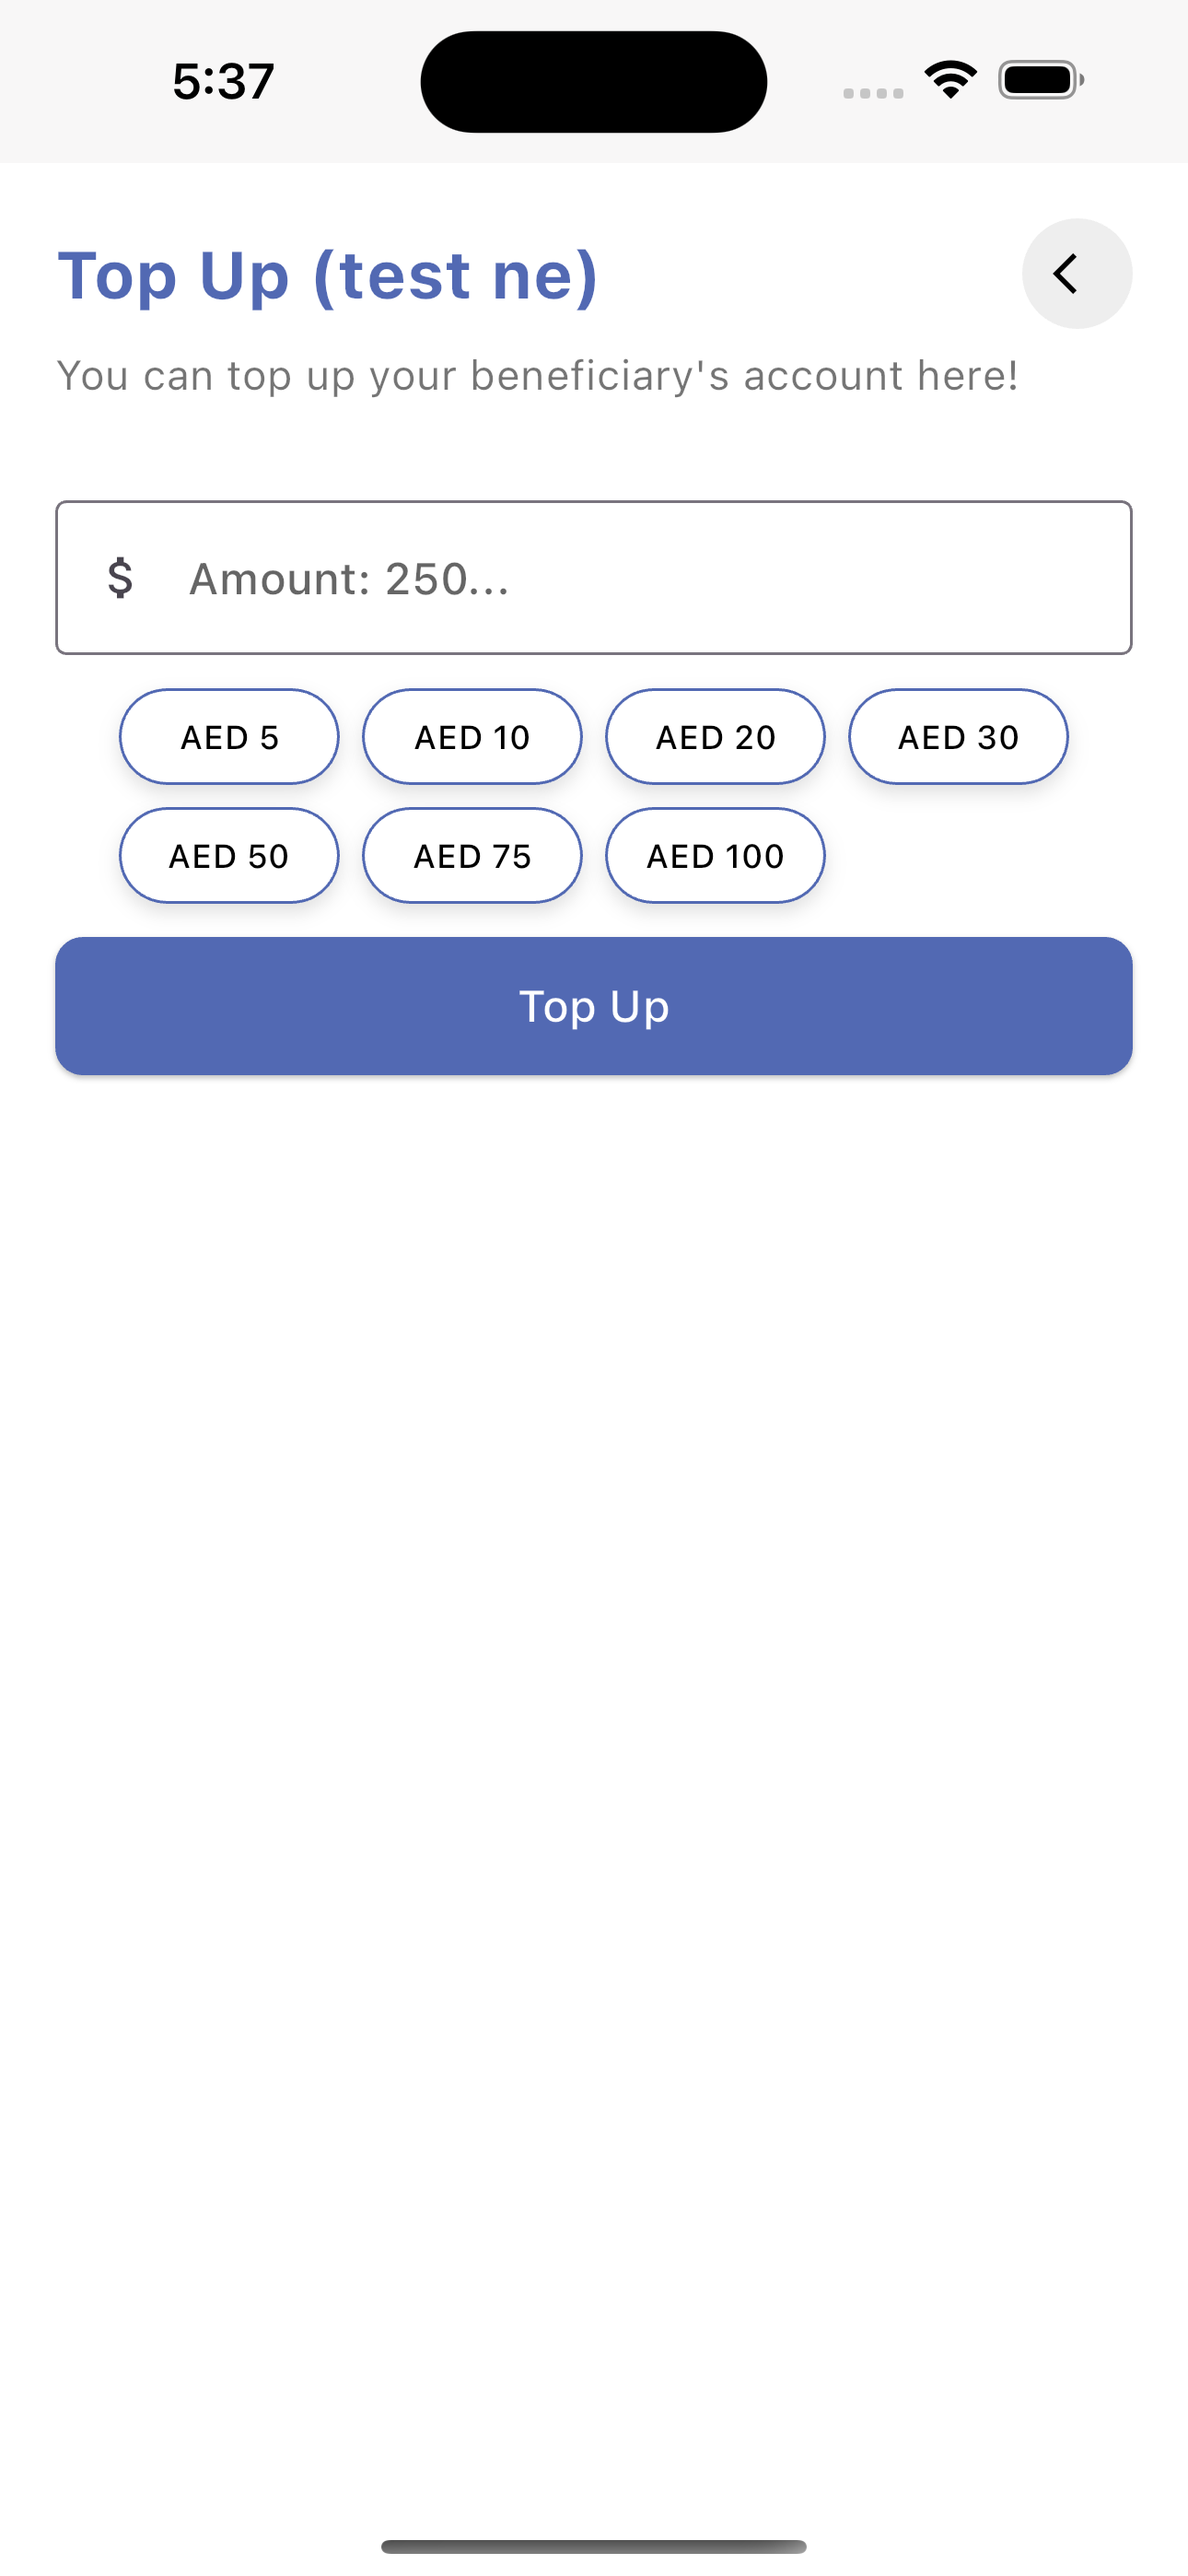
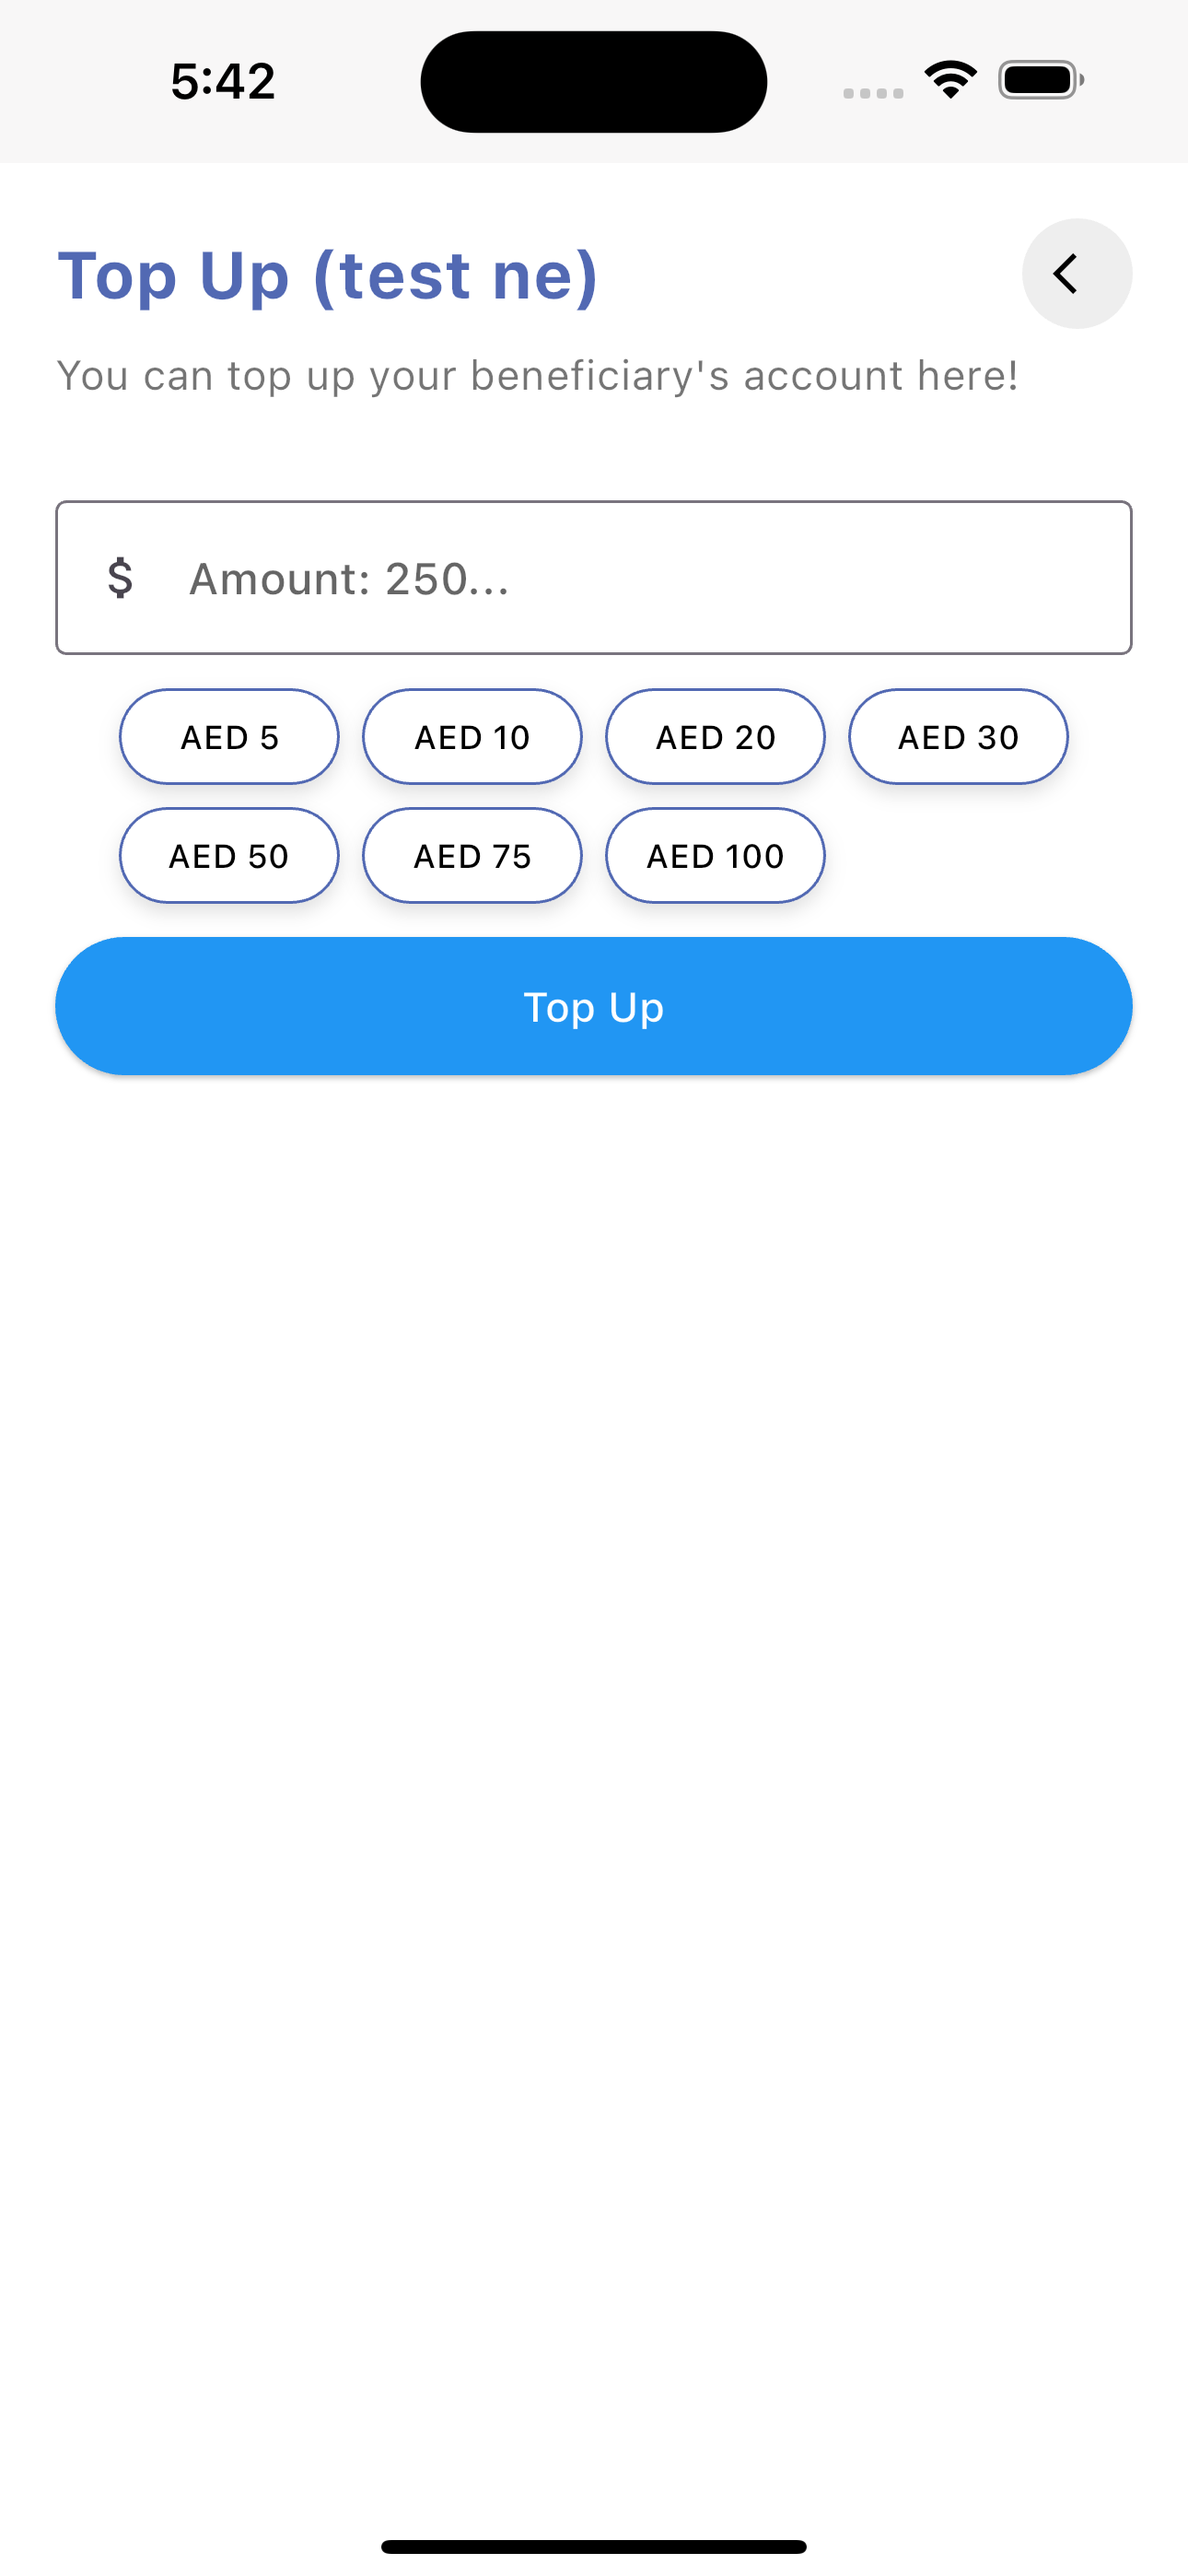
minor refactor

Changed region(s): [[0.031, 0.3423, 0.9612, 0.4356], [0.3101, 0.9646, 0.6822, 0.9957], [0.186, 0.0, 0.2171, 0.0622]]

diff --git a/lib/view/top_up.dart/widgets/top_up_widgets.dart b/lib/view/top_up.dart/widgets/top_up_widgets.dart
@@ -1,4 +1,5 @@
 import 'package:flutter/material.dart';
+import 'package:mobile_recharge/values/common_widgets.dart';
 import 'package:mobile_recharge/values/strings.dart';
 
 class BeneficiaryTopUpWidgets {
@@ -127,19 +128,9 @@ class BeneficiaryTopUpWidgets {
   static Widget buildSubmitButton({
     required VoidCallback onPressed,
   }) {
-    return ElevatedButton(
-      style: ElevatedButton.styleFrom(
-        backgroundColor: const Color(0xFF5269B3),
-        minimumSize: const Size(double.infinity, 50),
-        shape: RoundedRectangleBorder(
-          borderRadius: BorderRadius.circular(10),
-        ),
-      ),
+    return buildElevatedButton(
       onPressed: onPressed,
-      child: const Text(
-        Strings.topUp,
-        style: TextStyle(color: Colors.white, fontSize: 16),
-      ),
+      label: Strings.topUp,
     );
   }
 }
